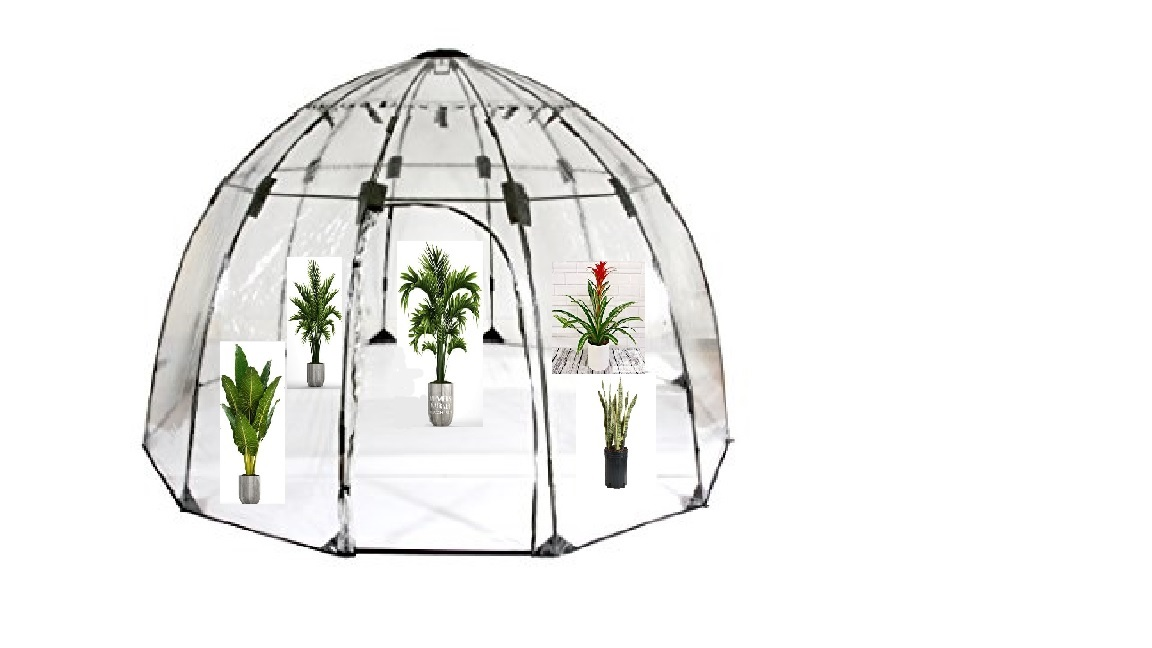
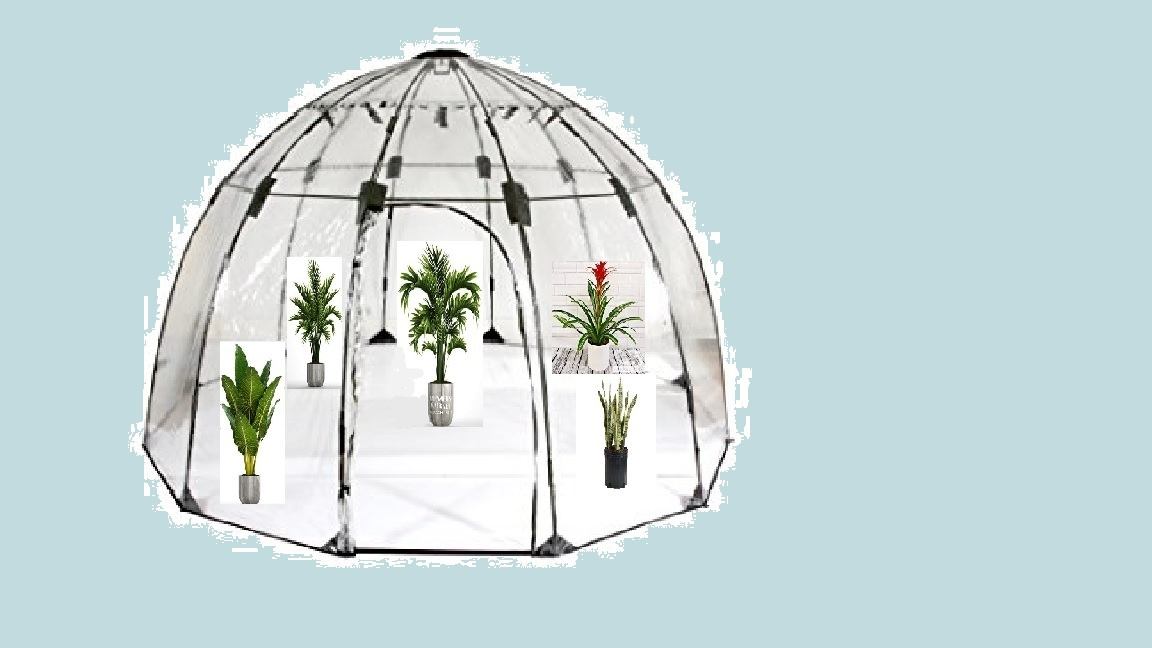
added the greenhouse and updated css to set the background color for the image

diff --git a/index.html b/index.html
@@ -34,7 +34,9 @@
                 <p><input type='text' id='destination' placeholder='Look for a City' /></p>
                 <p><input id="find-city" type="submit" value="Search City"></p>
                 <div id="view-this"></div>
-
+                <div>
+                    <img id="green-house" src="./assets/images/greenhouse.jpg" alt="Missing green house images.">
+                </div>
                 <script type="text/javascript">
                     $("#find-city").on("click", function (event) {
                         event.preventDefault();

diff --git a/assets/css/style.css b/assets/css/style.css
@@ -23,3 +23,7 @@ body{
     padding-right: 70%;
 }
 
+#green-house{
+    background-color: rgb(193, 219, 223);
+}
+
